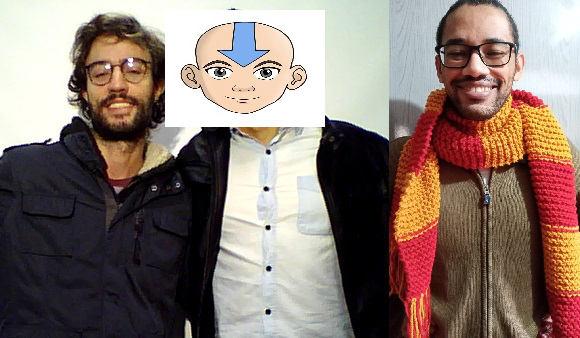
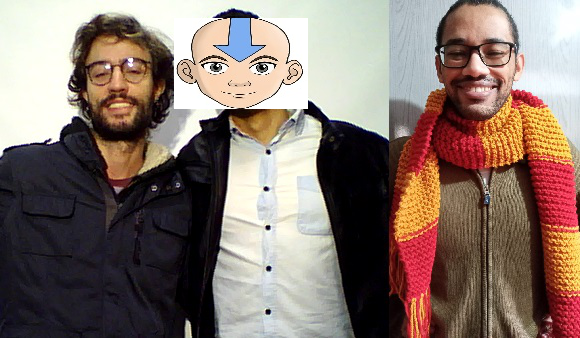
Update Files

Changed region(s): [[0.2793, 0.0296, 0.5586, 0.3846]]

diff --git a/Lab1_arquivos/L1_5_montagem_avatar.py b/Lab1_arquivos/L1_5_montagem_avatar.py
@@ -56,12 +56,12 @@ def recortar_figura(img: str, board: int, resized: bool, scale: int):
     
     frame = frame[board:-board, board:-board]
 
-    cv2.imshow("Imagem Recortada", frame)
+    # cv2.imshow("Imagem Recortada", frame)
     cv2.imwrite(filename='./img/avatar1_recortada.jpg', img = frame)
     cv2.waitKey(0)
     cv2.destroyAllWindows()
     return frame[board:-board, board:-board]
 
-avatar1_img = recortar_figura(img="./img/avatar1.jpeg", board= 5, resized= True, scale = 2)
-# team_img = adicionar_avatar(img_origin="./img/Equipe.png", img_add=f"./img/avatar1_recortada.jpg", x = 165, y=10, fl=False)
+avatar1_img = recortar_figura(img="./img/avatar2.jpg", board= 48, resized= True, scale = 4)
+team_img = adicionar_avatar(img_origin="./img/Equipe.png", img_add=f"./img/avatar1_recortada.jpg", x = 174, y=18, fl=False)
 
